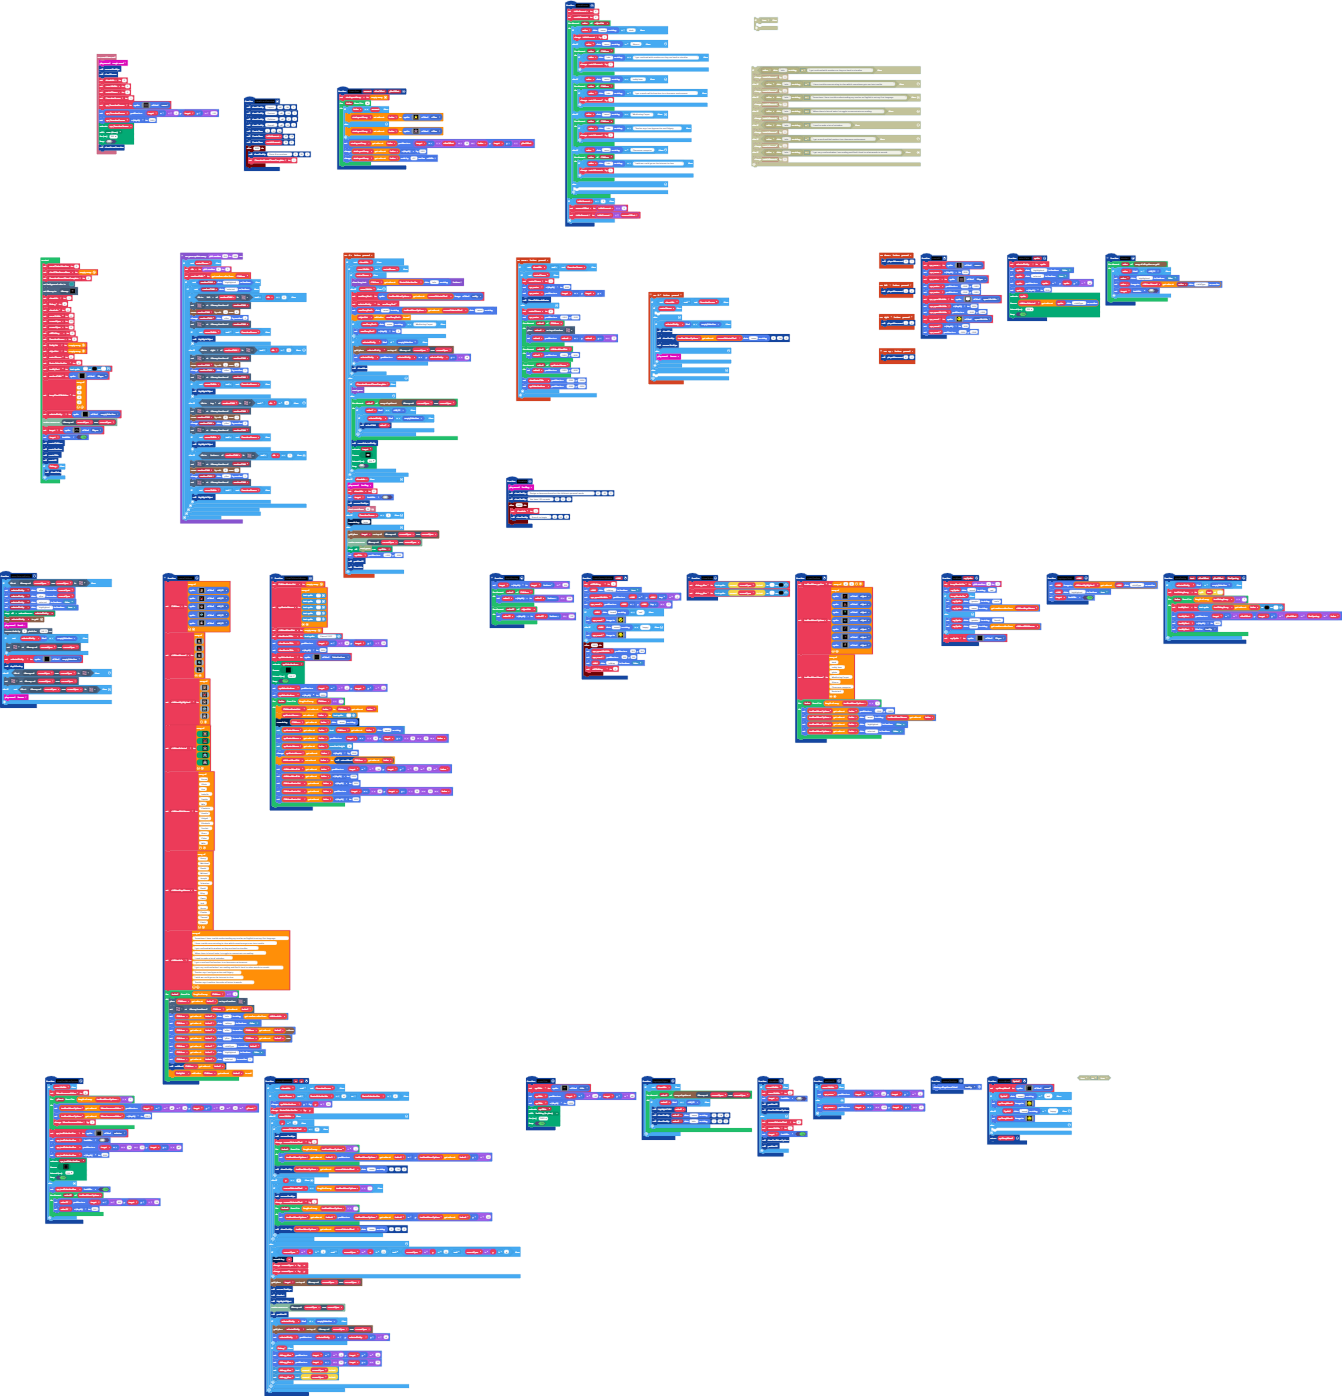
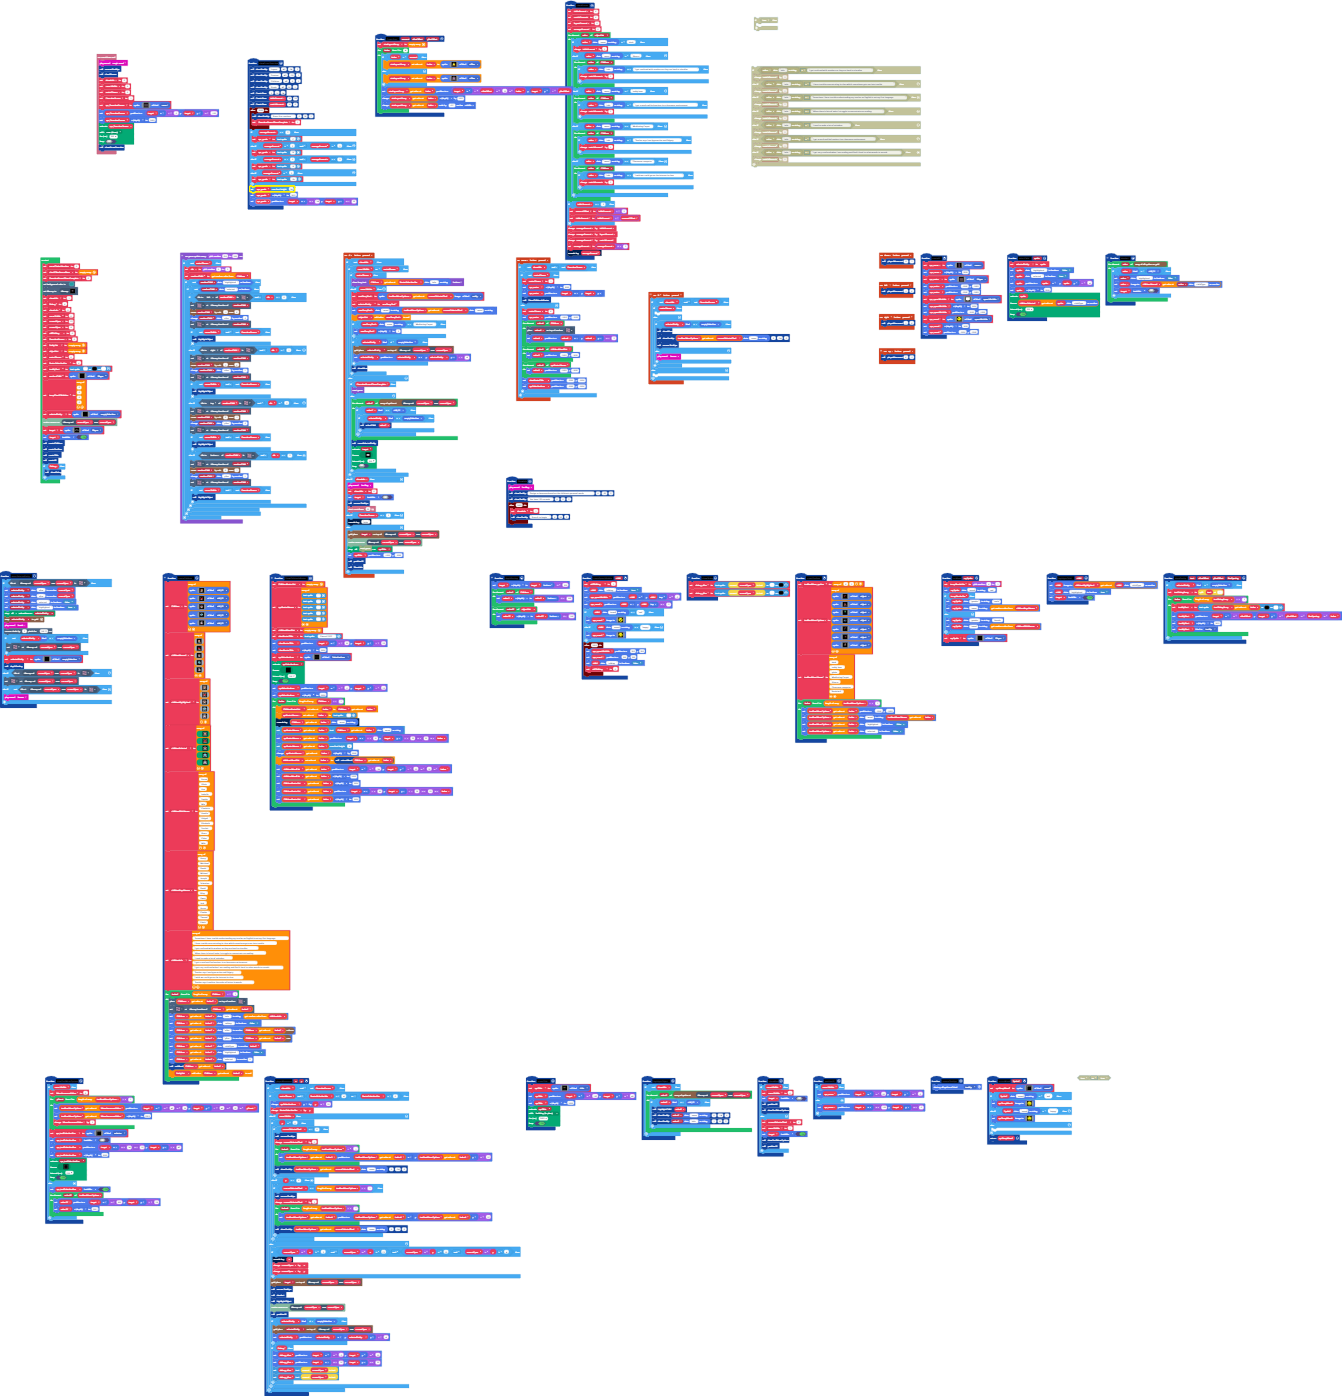
grade added

Changed region(s): [[0.1833, 0.0, 0.5499, 0.1848]]

diff --git a/main.ts b/main.ts
@@ -21,6 +21,8 @@ namespace SpriteKind {
 function checkScores () {
     tableAmount = 0
     matchAmount = 0
+    layoutAmount = 0
+    averageAmount = 0
     for (let value of objectList) {
         if (sprites.readDataString(value, "name") == "desk") {
             tableAmount += 1
@@ -48,14 +50,17 @@ function checkScores () {
                     matchAmount += 1
                 }
             }
-        } else {
-        	
         }
     }
     if (tableAmount > 5) {
         amountOffset = tableAmount - 5
         tableAmount = tableAmount - amountOffset
     }
+    averageAmount += tableAmount
+    averageAmount += layoutAmount
+    averageAmount += matchAmount
+    averageAmount = averageAmount / 3
+    console.log(averageAmount)
 }
 // movement
 controller.up.onEvent(ControllerButtonEvent.Pressed, function () {
@@ -281,7 +286,7 @@ function showScoreOverview () {
     showTooltip("Layout", -42, -34, 1)
     showTooltip("Content", -45, -16, 1)
     showTooltip("Children", -48, 0, 1)
-    showTooltip("Overall", -48, 30, 1)
+    showTooltip("Grade", -48, 30, 1)
     CreateStars(3, 10, 34)
     CreateStars(tableAmount, 10, 16)
     CreateStars(matchAmount, 10, 0)
@@ -289,6 +294,18 @@ function showScoreOverview () {
         showTooltip("Press A to continue", 0, 50, 1)
         OverviewScreenTimerComplete = 1
     })
+    if (averageAmount < 2) {
+        spr_grade = textsprite.create("C")
+    } else if (averageAmount > 2 && averageAmount < 3) {
+        spr_grade = textsprite.create("B")
+    } else if (averageAmount > 3 && averageAmount < 5) {
+        spr_grade = textsprite.create("A")
+    } else if (averageAmount == 5) {
+        spr_grade = textsprite.create("A+")
+    }
+    spr_grade.setMaxFontHeight(24)
+    spr_grade.z = 3001
+    spr_grade.setPosition(target.x + 14, target.y + 30)
 }
 controller.left.onEvent(ControllerButtonEvent.Pressed, function () {
     playerMovement(-1, 0)
@@ -708,6 +725,7 @@ let textStringArray: string[] = []
 let toolboxMenuNames: string[] = []
 let toolboxMenu_sprites: number[] = []
 let spr_OverviewScreen: Sprite = null
+let spr_grade: TextSprite = null
 let mySprite: Sprite = null
 let childrenGirlsNames: string[] = []
 let childrenBoysNames: string[] = []
@@ -729,6 +747,8 @@ let spr_roster: Sprite = null
 let spr_menu: Sprite = null
 let amountOffset = 0
 let Children: Sprite[] = []
+let averageAmount = 0
+let layoutAmount = 0
 let matchAmount = 0
 let tableAmount = 0
 let target: Sprite = null
